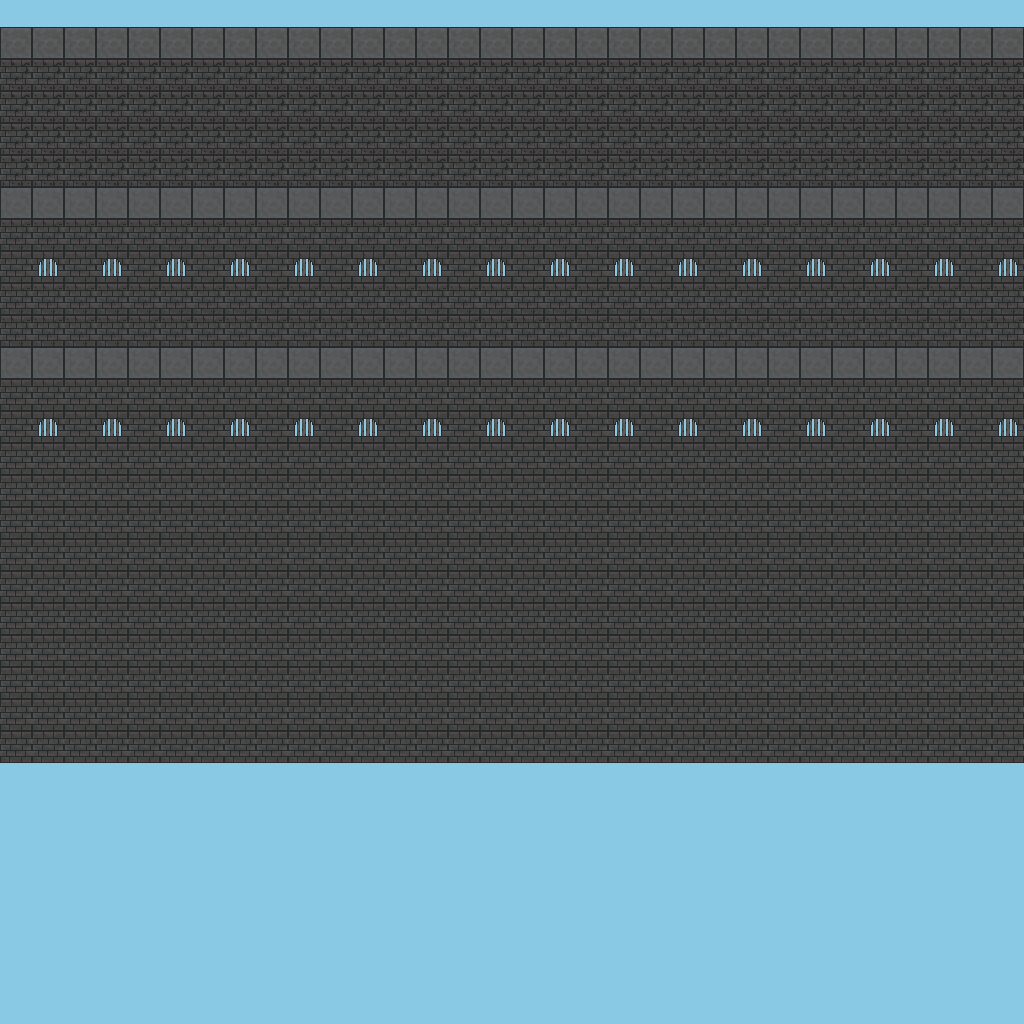
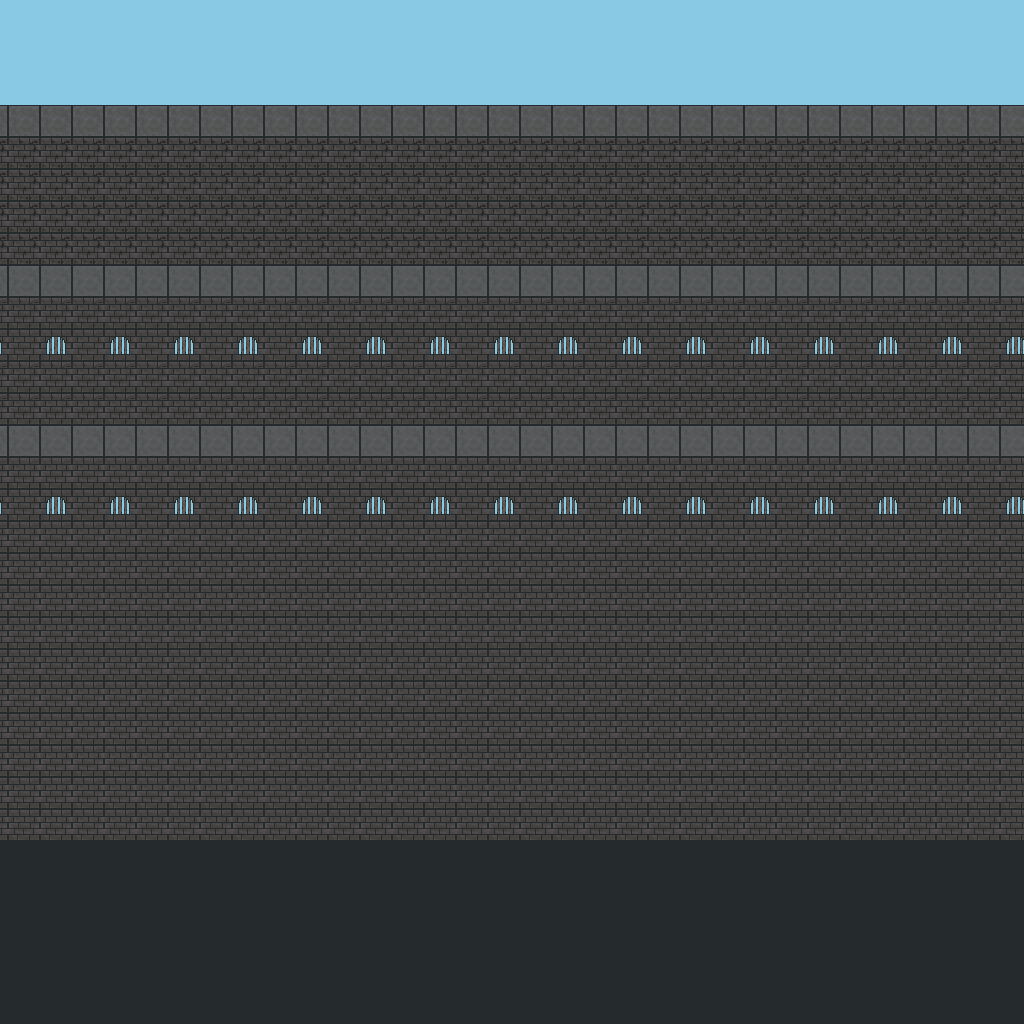
Add push inside level

diff --git a/main.js b/main.js
@@ -81,7 +81,8 @@ function generateLevels() {
     GAME.addInput(new Input(players[0]));
     GAME.addInput(new Input(players[1], { left: 'arrowleft', right: 'arrowright', up: 'arrowup' }));
 
-    let outside = new Background(new Texture('../assets/background/outside.png', { w: 1024, h: 1024 }), ['#89c9e4', '#477553'])
+    let outside = new Background(new Texture('../assets/background/outside.png', { w: 1024, h: 1024 }), ['#89c9e4', '#477553']);
+    let inside = new Background(new Texture('../assets/background/inside.png', { w: 1024, h: 1024 }), ['#89c9e4', '#252b2d']);
 
     let buttonTextures = {
         up: new Texture('../assets/interactive/button-up.png', { w: 16, h: 6 }),
@@ -94,10 +95,45 @@ function generateLevels() {
         big: '../assets/interactive/spike-small.png',
         small: '../assets/interactive/spike-small.png'
     };
+    let box = {
+        big: '../assets/interactive/box-small.png',
+        small: '../assets/interactive/box-small.png'
+    };
     let brick = {
         big: ['../assets/ground/brick-big-side.png', '../assets/ground/brick-big-middle.png'],
         small: ['../assets/ground/brick-small-side.png', '../assets/ground/brick-small-middle.png']
     };
+
+    let push = new Level();
+    push.setBackground(inside);
+
+    push.addSpawn(new Spawn({ x: 400, y: 240 }, players[0]));
+    push.addSpawn(new Spawn({ x: 400, y: 400 }, players[1]));
+    push.addObject(new Ground({ x: 440, y: 280 }, { w: 160, h: 32 }, new Sandwich(brick.big, { w: 160, h: 32 })));
+    push.addObject(new Ground({ x: 440, y: 440 }, { w: 160, h: 32 }, new Sandwich(brick.big, { w: 160, h: 32 })));
+
+    let pushP1 = new Platform([{ x: 536, y: 360 }, { x: 536, y: 520 }], { w: 32, h: 192 }, new Sandwich(cracked, { w: 32, h: 192 }), { x: 0, y: 0 }, 'pause', 1);
+    push.addObject(pushP1);
+    push.addObject(new Door({ x: 600, y: 422.5 }, { w: 16, h: 3 }, [buttonTextures.up, buttonTextures.down], { x: 0, y: -1.5 }, pushP1));
+
+    push.addObject(new Ground({ x: 571, y: 280 }, { w: 38, h: 32 }, new Sandwich(brick.small, { w: 38, h: 32 })));
+    push.addObject(new Ground({ x: 661, y: 280 }, { w: 102, h: 32 }, new Sandwich(brick.small, { w: 102, h: 32 })));
+    push.addObject(new Ground({ x: 632, y: 440 }, { w: 160, h: 32 }, new Sandwich(brick.big, { w: 160, h: 32 })));
+    push.addObject(new Box({ x: 536, y: 256 }, { w: 16, h: 16 }, new Texture(box.small, { w: 16, h: 16 })));
+
+    let pushP2 = new Platform([{ x: 728, y: 200 }, { x: 728, y: 360 }], { w: 32, h: 192 }, new Sandwich(cracked, { w: 32, h: 192 }), { x: 0, y: 0 }, 'pause', 1);
+    push.addObject(pushP2);
+    push.addObject(new Door({ x: 664, y: 422.5 }, { w: 16, h: 3 }, [buttonTextures.up, buttonTextures.down], { x: 0, y: -1.5 }, pushP2));
+    
+    push.addObject(new Ground({ x: 824, y: 280 }, { w: 160, h: 32 }, new Sandwich(brick.big, { w: 160, h: 32 })));
+    push.addObject(new Ground({ x: 824, y: 440 }, { w: 160, h: 32 }, new Sandwich(brick.big, { w: 160, h: 32 })));
+
+    push.addGoal(new Goal({ x: 920, y: 280 }));
+    push.addGoal(new Goal({ x: 920, y: 440 }));
+    push.addObject(new Ground({ x: 920, y: 288 }, { w: 32, h: 16 }, new Sandwich(brick.small, { w: 32, h: 32 }), { x: 0, y: -8 }));
+    push.addObject(new Ground({ x: 920, y: 448 }, { w: 32, h: 16 }, new Sandwich(brick.small, { w: 32, h: 32 }), { x: 0, y: -8 }));
+
+    GAME.addLevel(push);
 
     let links = new Level();
     links.setBackground(outside);
